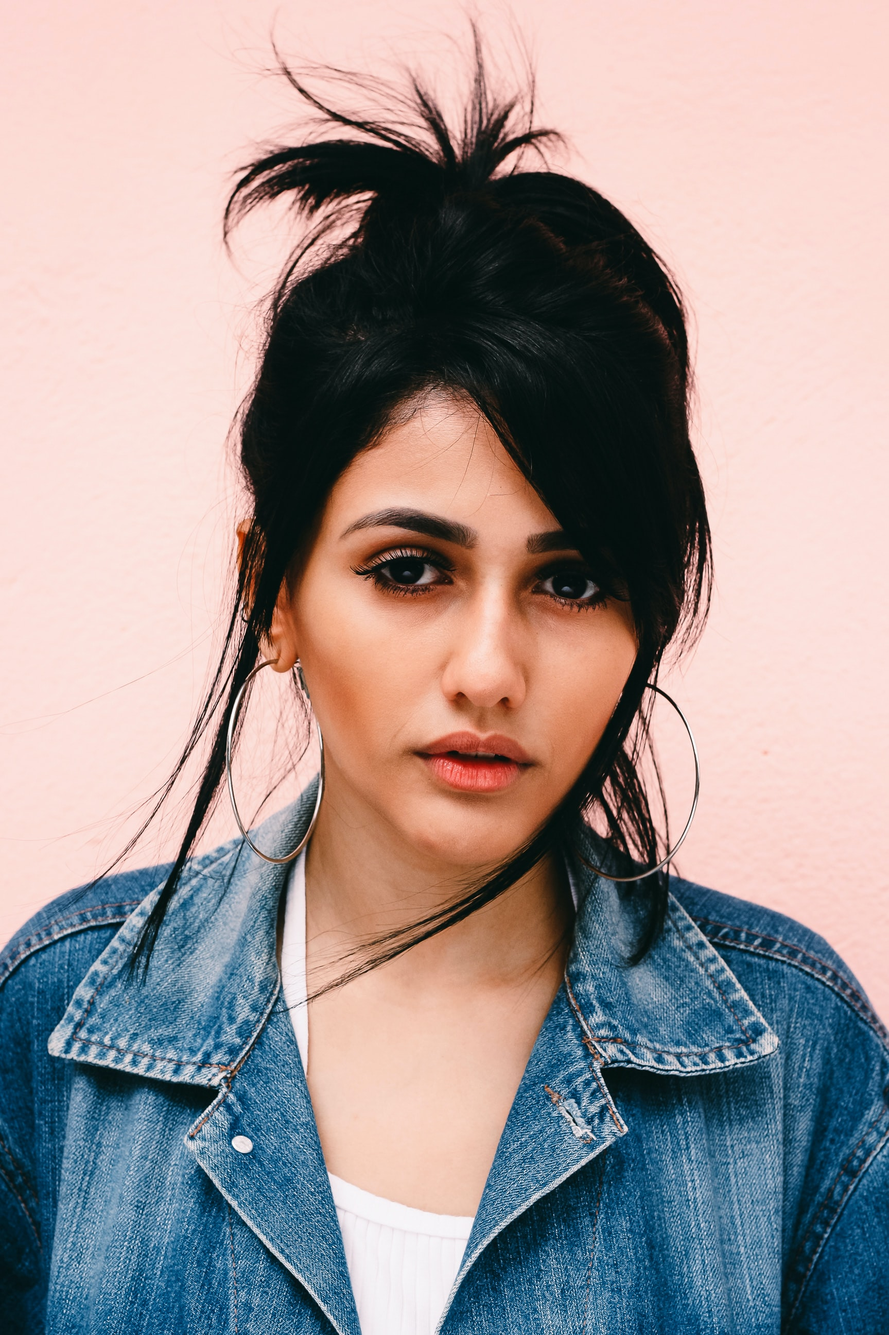
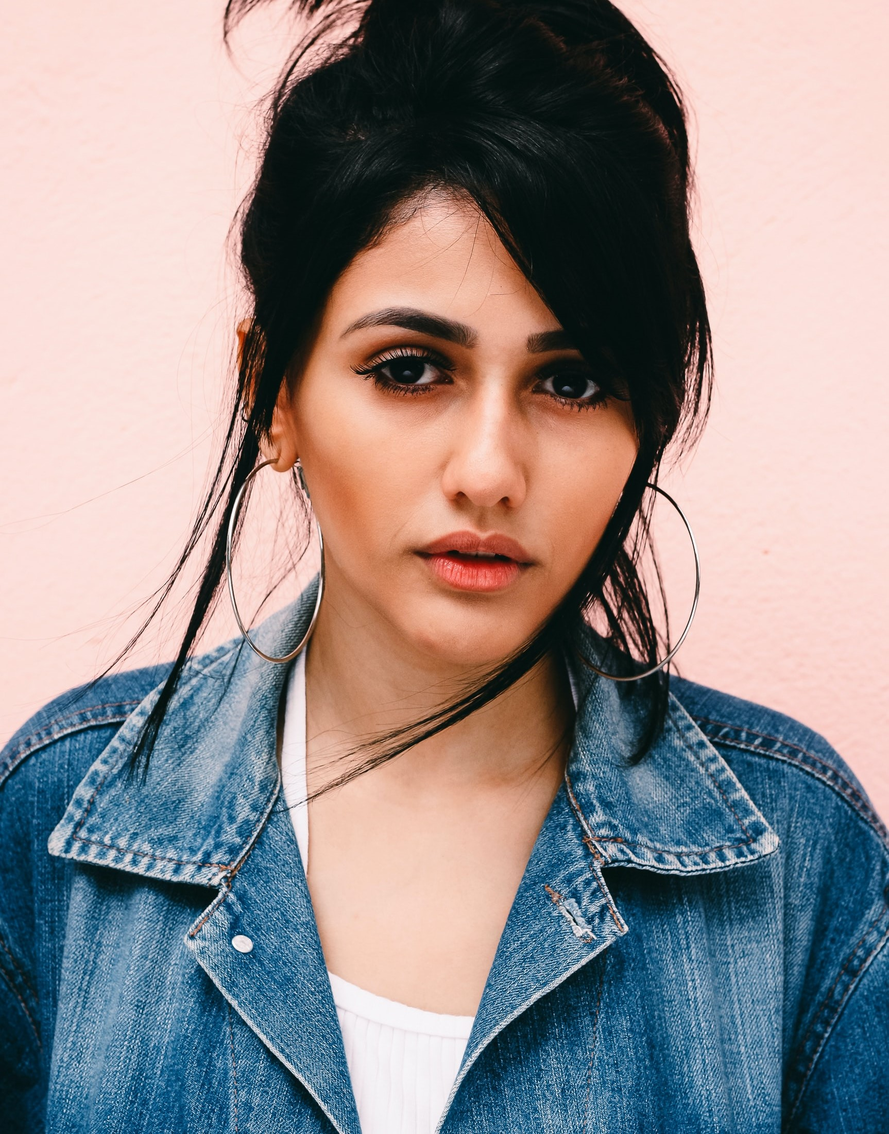
changing pic person1

diff --git a/src/styles/about.scss b/src/styles/about.scss
@@ -8,19 +8,24 @@
 }
 .firstperson {
   object-fit: cover;
-  height: 202px;
+  
 }
 .about-box {
   // font-family: Comic Sans MS, Comic Sans, cursive;
   background-color: white;
   box-shadow: rgba(149, 157, 165, 0.2) 0px 8px 24px;
 }
-
+@media only screen and (max-width: 100px){
+  .firstperson {
+    object-fit: cover;
+    height: 255px;
+  }
+}
 @media only screen and (max-width: 768px) {
   #card-title {
     text-align: center;
   }
-  .firstperson{
+  .firstperson {
     height: 420px;
   }
   .about-box {
@@ -36,6 +41,7 @@
 
 @media only screen and (min-width: 768px) {
   // for about component
+
 
   #card-title {
     padding-top: 2%;
